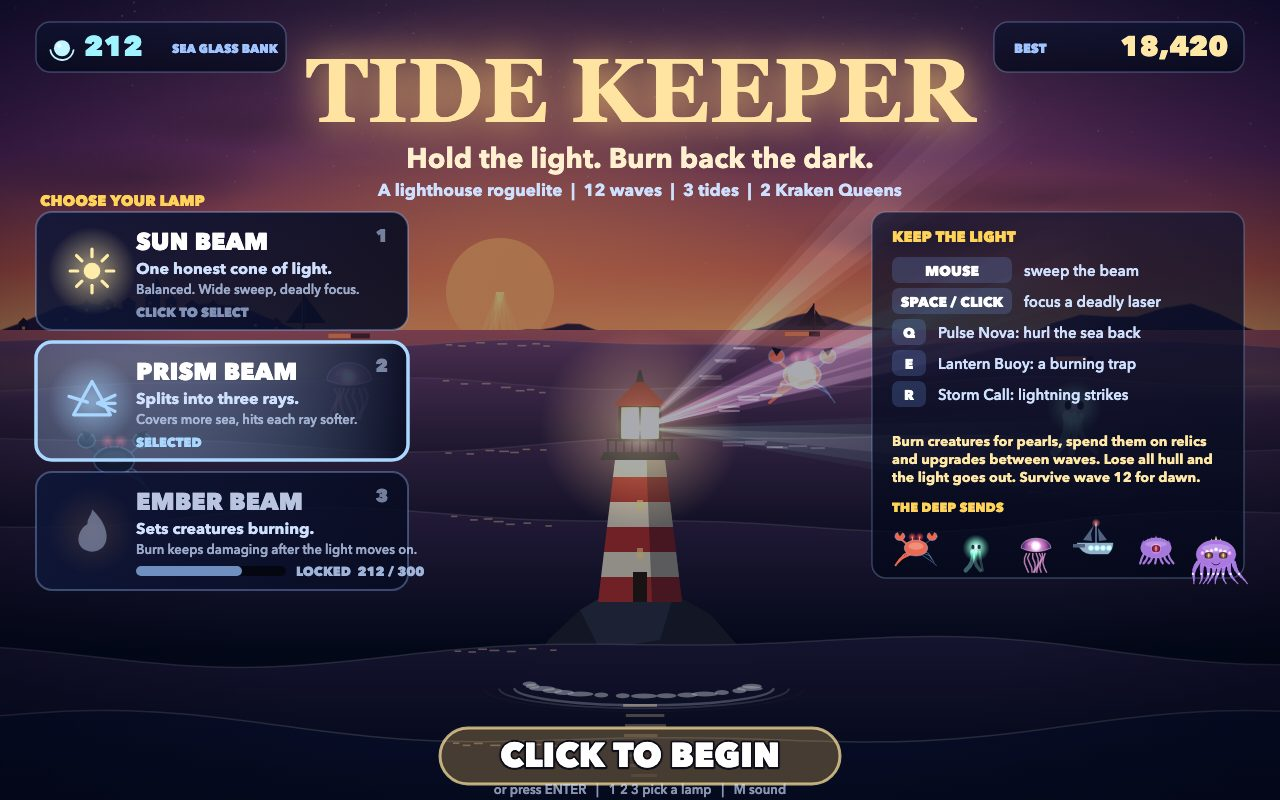
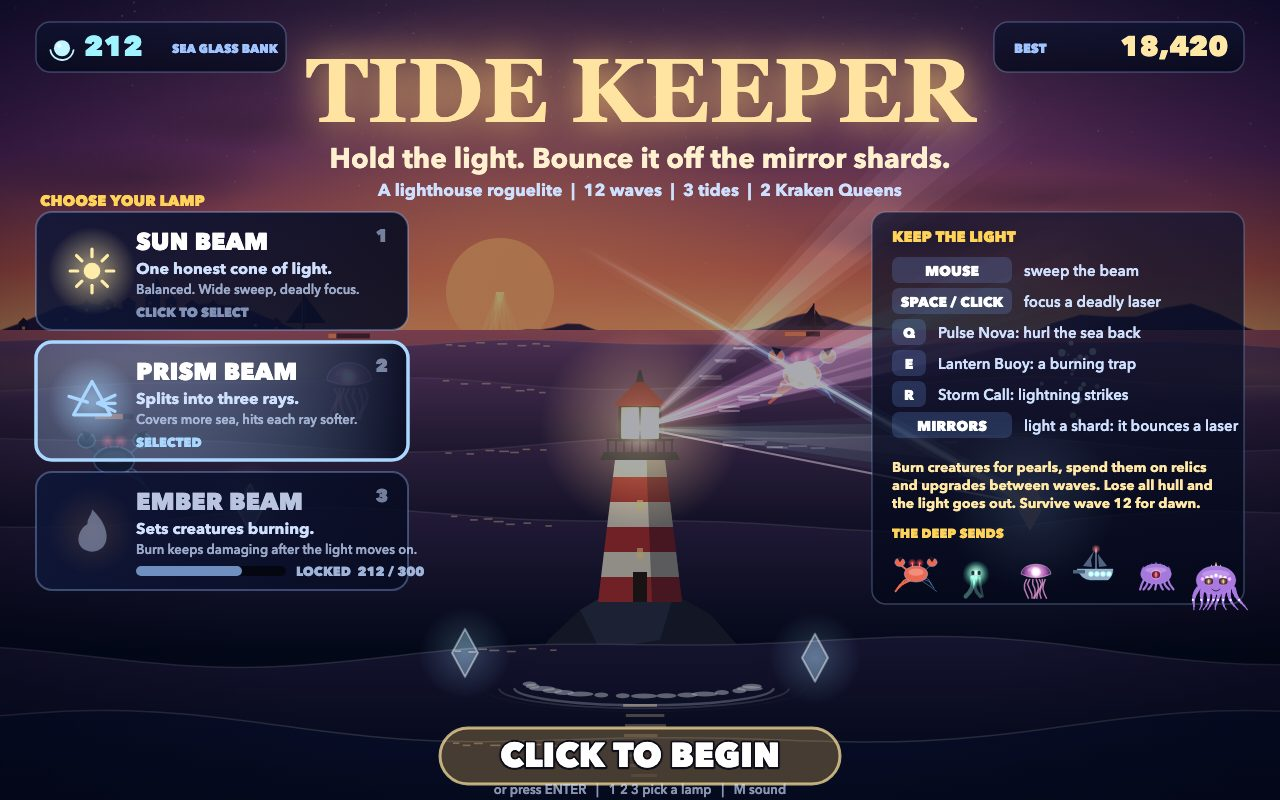
Tide Keeper 4: mirror shards bounce the beam into lasers

diff --git a/game/src/world.js b/game/src/world.js
@@ -1,7 +1,7 @@
 // The rules of Tide Keeper. A World holds everything that happens: the beam, the creatures, the waves,
 // the abilities, the pearls and shop, the score. It never touches the screen or the browser, so it runs
 // the same in a page or in a headless test.
-import { BASE, BEAM, BEAMS, BOSS_WAVES, COMBO, LAMP, PULSE_CENTER, START, TIDES, TOTAL_WAVES, TOWER_HIT_RADIUS, ABILITIES } from './config.js';
+import { BASE, BEAM, BEAMS, BOSS_WAVES, COMBO, LAMP, MIRROR, MIRRORS, PULSE_CENTER, START, TIDES, TOTAL_WAVES, TOWER_HIT_RADIUS, ABILITIES } from './config.js';
 import { BOSSES, makeEnemy, moveEnemy, spawnPoint, TYPES, waveRoster } from './enemies.js';
 import { Rng } from './random.js';
 import { freshMeta, loadMeta, saveMeta } from './storage.js';
@@ -75,6 +75,7 @@ export class World {
     this.orbs = [];
     this.rings = [];
     this.buoys = [];
+    this.mirrors = MIRRORS.map((m) => ({ ...m, lit: 0, on: false, ang: 0 }));
     this.storm = null;
     this.cooldowns = { pulse: 0, buoy: 0, storm: 0 };
     this.cdFlash = { pulse: 0, buoy: 0, storm: 0 };
@@ -291,6 +292,32 @@ export class World {
     this.beamAngle = wrap(this.beamAngle + this.beamVel * dt);
   }
 
+  /** A mirror shard lights up while the beam covers it, then bounces a laser at the creature nearest to it. */
+  updateMirrors(dt, arms, range) {
+    for (const m of this.mirrors) {
+      const dx = m.x - LAMP.x;
+      const dy = m.y - LAMP.y;
+      const dist = Math.hypot(dx, dy);
+      const dir = Math.atan2(dy, dx);
+      let hit = false;
+      for (const arm of arms) if (dist < range + 40 && Math.abs(wrap(dir - (this.beamAngle + arm.off))) < arm.half + MIRROR.half) hit = true;
+      m.lit += ((hit && !this.locked ? 1 : 0) - m.lit) * Math.min(1, dt * 10);
+      m.on = m.lit > 0.45;
+      if (!m.on) continue;
+      let near = null;
+      let best = MIRROR.reach;
+      for (const e of this.enemies) {
+        const d = Math.hypot(e.x - m.x, e.y - m.y);
+        if (d < best) {
+          best = d;
+          near = e;
+        }
+      }
+      if (near) m.ang = Math.atan2(near.y - m.y, near.x - m.x);
+      else m.on = false;
+    }
+  }
+
   /** Damage `amount` to creature `e`. `pierce` ignores shields; `focused` is the laser. Returns damage dealt. */
   hurt(e, amount, { pierce = false, focused = false, burn = false } = {}) {
     let amt = amount;
@@ -335,6 +362,7 @@ export class World {
     const range = this.beamRange;
     const ember = this.beamId === 'ember';
     let burned = false;
+    this.updateMirrors(dt, arms, range);
 
     for (let i = this.enemies.length - 1; i >= 0; i -= 1) {
       const e = this.enemies[i];
@@ -365,6 +393,18 @@ export class World {
         if (ember) e.burn = Math.max(e.burn, 3.2);
         burned = true;
         if (this.fx.chance(this.focusing ? 0.7 : 0.25)) this.spark(e.x, e.y, 1, this.focusing ? '180,240,255' : ember ? '255,150,70' : '255,200,110', 120, 0.45);
+      }
+      for (const m of this.mirrors) {
+        if (!m.on) continue;
+        const mdx = e.x - m.x;
+        const mdy = e.y - m.y;
+        const md = Math.hypot(mdx, mdy);
+        const off = wrap(Math.atan2(mdy, mdx) - m.ang);
+        if (md < MIRROR.reach + e.r && Math.abs(off) < MIRROR.half + e.r / Math.max(md, 40)) {
+          this.hurt(e, MIRROR.dps * (this.focusing ? 2.2 : 1) * dt, { focused: this.focusing });
+          e.lit = 1;
+          if (this.fx.chance(0.3)) this.spark(e.x, e.y, 1, '150,235,255', 110, 0.4);
+        }
       }
       if (e.burn > 0) {
         e.burn -= dt;

diff --git a/game/src/title.js b/game/src/title.js
@@ -75,7 +75,7 @@ export function drawTitle(ctx, world, ui, t) {
   ctx.shadowBlur = 40;
   text(ctx, 'TIDE KEEPER', W / 2, 122, 90, '#ffe3a0', 'center', 900, SERIF);
   ctx.restore();
-  text(ctx, 'Hold the light. Burn back the dark.', W / 2, 168, 28, '#fff1d0', 'center', 700);
+  text(ctx, 'Hold the light. Bounce it off the mirror shards.', W / 2, 168, 28, '#fff1d0', 'center', 700);
   text(ctx, `A lighthouse roguelite  |  ${TOTAL_WAVES} waves  |  3 tides  |  2 Kraken Queens`, W / 2, 196, 17, '#cfe0ff', 'center', 700);
 
   // Bank and best score.
@@ -93,7 +93,7 @@ export function drawTitle(ctx, world, ui, t) {
 
   // Rules, right.
   const px = W - 36 - 372;
-  panel(ctx, px, 212, 372, 366, 0.72);
+  panel(ctx, px, 212, 372, 392, 0.72);
   text(ctx, 'KEEP THE LIGHT', px + 20, 242, 15, '#ffd35a', 'left', 900);
   const rows = [
     ['MOUSE', 'sweep the beam'],
@@ -101,6 +101,7 @@ export function drawTitle(ctx, world, ui, t) {
     ['Q', 'Pulse Nova: hurl the sea back'],
     ['E', 'Lantern Buoy: a burning trap'],
     ['R', 'Storm Call: lightning strikes'],
+    ['MIRRORS', 'light a shard: it bounces a laser'],
   ];
   rows.forEach(([key, what], i) => {
     const y = 276 + i * 31;
@@ -110,14 +111,14 @@ export function drawTitle(ctx, world, ui, t) {
     text(ctx, key, px + 20 + (key.length > 3 ? 60 : 17), y, 14, '#ffffff', 'center', 800);
     text(ctx, what, px + (key.length > 3 ? 152 : 66), y, 15, '#cfe0ff', 'left', 600);
   });
-  text(ctx, 'Burn creatures for pearls, spend them on relics', px + 20, 446, 14, '#ffe7a6', 'left', 700);
-  text(ctx, 'and upgrades between waves. Lose all hull and', px + 20, 464, 14, '#ffe7a6', 'left', 700);
-  text(ctx, `the light goes out. Survive wave ${TOTAL_WAVES} for dawn.`, px + 20, 482, 14, '#ffe7a6', 'left', 700);
+  text(ctx, 'Burn creatures for pearls, spend them on relics', px + 20, 472, 14, '#ffe7a6', 'left', 700);
+  text(ctx, 'and upgrades between waves. Lose all hull and', px + 20, 490, 14, '#ffe7a6', 'left', 700);
+  text(ctx, `the light goes out. Survive wave ${TOTAL_WAVES} for dawn.`, px + 20, 508, 14, '#ffe7a6', 'left', 700);
   // The creatures.
-  text(ctx, 'THE DEEP SENDS', px + 20, 512, 13, '#ffd35a', 'left', 900);
+  text(ctx, 'THE DEEP SENDS', px + 20, 538, 13, '#ffd35a', 'left', 900);
   ['crab', 'ghost', 'jelly', 'gunboat', 'leviathan', 'kraken'].forEach((type, i) => {
     const small = type === 'kraken' ? 0.3 : type === 'leviathan' ? 0.32 : type === 'gunboat' ? 0.5 : 0.62;
-    drawEnemyIcon(ctx, type, px + 44 + i * 60, 548 + (type === 'kraken' ? 8 : 0), small, t + i);
+    drawEnemyIcon(ctx, type, px + 44 + i * 60, 574 + (type === 'kraken' ? 8 : 0), small, t + i);
   });
 
   // Click to begin.

diff --git a/game/src/beam.js b/game/src/beam.js
@@ -1,7 +1,7 @@
 // Light and sparks: the volumetric beam (sun, prism or ember), its glitter on the water, the lamp glow,
 // the ability effects (pulse ring, lantern buoys, lightning), particles, flying pearls and damage numbers.
 // Everything luminous is drawn additively ('lighter') so overlapping light adds up and glows.
-import { BEAMS, HORIZON, LAMP, PEARL_HUD, PULSE_CENTER } from './config.js';
+import { BEAMS, HORIZON, LAMP, MIRROR, PEARL_HUD, PULSE_CENTER } from './config.js';
 
 function cone(ctx, angle, half, range) {
   ctx.beginPath();
@@ -262,6 +262,58 @@ export function drawFloaters(ctx, world) {
     ctx.strokeText(f.text, f.x, f.y);
     ctx.fillStyle = f.color || '#ffe9a8';
     ctx.fillText(f.text, f.x, f.y);
+  }
+  ctx.restore();
+}
+
+/** Mirror shards: faint crystals on the water; lit ones throw a reflected laser at the creature they aim at. */
+export function drawMirrors(ctx, world, t) {
+  ctx.save();
+  ctx.globalCompositeOperation = 'lighter';
+  for (const m of world.mirrors) {
+    const k = m.lit;
+    const bob = Math.sin(t * 1.6 + m.x * 0.01) * 3;
+    const y = m.y + bob;
+    const glow = ctx.createRadialGradient(m.x, y, 0, m.x, y, 46 + 40 * k);
+    glow.addColorStop(0, `rgba(170,240,255,${0.28 + 0.6 * k})`);
+    glow.addColorStop(1, 'rgba(170,240,255,0)');
+    ctx.fillStyle = glow;
+    ctx.fillRect(m.x - 90, y - 90, 180, 180);
+    ctx.beginPath();
+    ctx.moveTo(m.x, y - 24);
+    ctx.lineTo(m.x + 13, y);
+    ctx.lineTo(m.x, y + 24);
+    ctx.lineTo(m.x - 13, y);
+    ctx.closePath();
+    ctx.fillStyle = `rgba(200,245,255,${0.35 + 0.55 * k})`;
+    ctx.fill();
+    ctx.strokeStyle = `rgba(255,255,255,${0.5 + 0.5 * k})`;
+    ctx.lineWidth = 2;
+    ctx.stroke();
+    if (m.on) {
+      const range = MIRROR.reach + 40;
+      const gradient = ctx.createLinearGradient(m.x, y, m.x + Math.cos(m.ang) * range, y + Math.sin(m.ang) * range);
+      gradient.addColorStop(0, 'rgba(190,245,255,0.95)');
+      gradient.addColorStop(1, 'rgba(120,210,255,0)');
+      for (const [w, a] of [[16, 0.22], [7, 0.45], [2.6, 1]]) {
+        ctx.strokeStyle = gradient;
+        ctx.globalAlpha = a;
+        ctx.lineWidth = w;
+        ctx.lineCap = 'round';
+        ctx.beginPath();
+        ctx.moveTo(m.x, y);
+        ctx.lineTo(m.x + Math.cos(m.ang) * range, y + Math.sin(m.ang) * range);
+        ctx.stroke();
+      }
+      ctx.globalAlpha = 1;
+      // The bounce: a thin line from the lamp to the shard.
+      ctx.strokeStyle = 'rgba(255,250,225,0.55)';
+      ctx.lineWidth = 2;
+      ctx.beginPath();
+      ctx.moveTo(LAMP.x, LAMP.y);
+      ctx.lineTo(m.x, y);
+      ctx.stroke();
+    }
   }
   ctx.restore();
 }

diff --git a/game/src/autopilot.js b/game/src/autopilot.js
@@ -51,6 +51,17 @@ export class Autopilot {
         }
       }
       this.retargetT = s.retarget;
+      this.mirror = null;
+      let crowd = 2;
+      for (const m of world.mirrors) {
+        const n = world.enemies.filter((e) => Math.hypot(e.x - m.x, e.y - m.y) < 330).length;
+        if (n > crowd) {
+          crowd = n;
+          this.mirror = m;
+        }
+      }
+      const danger = world.enemies.some((e) => e.type === 'shell' || e.type === 'kraken' || Math.hypot(e.x - BASE.x, e.y - BASE.y) < 260);
+      if (danger) this.mirror = null;
     }
     this.err += (this.rng.range(-1, 1) * s.jitter - this.err * 0.08) * 1;
     const cast = [];
@@ -58,6 +69,9 @@ export class Autopilot {
     if (this.thinkT <= 0) {
       this.thinkT = s.react;
       this.decideAbilities(world, cast);
+    }
+    if (this.mirror && world.enemies.length > 0) {
+      return { aim: Math.atan2(this.mirror.y - LAMP.y, this.mirror.x - LAMP.x) + this.err, focus: false, cast, cursor: { x: this.mirror.x, y: this.mirror.y } };
     }
     const t = this.target;
     if (!t) return { aim: world.beamAngle, focus: false, cast, cursor: { x: BASE.x, y: 480 } };

diff --git a/game/src/render.js b/game/src/render.js
@@ -1,5 +1,5 @@
 // Draws one whole frame: the scene back to front, then the HUD or the screen laid over it.
-import { drawBeam, drawBeamReflection, drawBolts, drawBuoys, drawFloaters, drawLampGlow, drawParticles, drawRings } from './beam.js';
+import { drawBeam, drawBeamReflection, drawBolts, drawBuoys, drawFloaters, drawLampGlow, drawMirrors, drawParticles, drawRings } from './beam.js';
 import { drawEnemy } from './creatures.js';
 import { H, W } from './config.js';
 import { drawHud } from './hud.js';
@@ -29,6 +29,7 @@ export function render(ctx, world, ui) {
   for (const e of world.enemies) if (e.type === 'ghost') drawEnemy(ctx, e, world.focusing);
   drawBeamReflection(ctx, world, t);
   drawBeam(ctx, world, t);
+  drawMirrors(ctx, world, t);
   drawLampGlow(ctx, world, t);
   drawRings(ctx, world);
   drawBolts(ctx, world);

diff --git a/game/src/shots.js b/game/src/shots.js
@@ -25,7 +25,7 @@ function freshRun(world, seed, beam, relics = []) {
 function busyness(world) {
   const lit = world.enemies.filter((e) => e.lit > 0.5).length;
   const kinds = new Set(world.enemies.map((e) => e.type)).size;
-  return world.enemies.length + lit * 3 + kinds * 4 + (world.focusing ? 5 : 0) + world.rings.length * 22 + world.buoys.length * 10 + (world.boss && world.boss.lit > 0.5 ? 16 : 0) + world.bolts.length * 3 + world.floaters.length * 0.6;
+  return world.enemies.length + lit * 3 + kinds * 4 + (world.focusing ? 5 : 0) + world.rings.length * 22 + world.buoys.length * 10 + (world.boss && world.boss.lit > 0.5 ? 16 : 0) + world.bolts.length * 3 + world.floaters.length * 0.6 + world.mirrors.filter((m) => m.on).length * 30;
 }
 
 /** Play wave 5 (the Kraken Queen) once to find the busiest moment, then replay to it. */

diff --git a/game/src/hud.js b/game/src/hud.js
@@ -173,7 +173,10 @@ export function drawHud(ctx, world, ui, pal) {
   drawRadar(ctx, world, t, accent);
   drawAbilityBar(ctx, world, t);
 
-  // Bottom right: the lamp in use and the keys.
+  // Bottom right: the lamp in use, a hint about the mirror shards, and the keys.
+  panel(ctx, W - 300, H - 126, 284, 28, 0.6, 'rgba(150,235,255,0.4)');
+  drawIcon(ctx, 'cone', W - 282, H - 112, 18, '#aef0ff');
+  text(ctx, 'MIRROR SHARDS bounce the beam', W - 266, H - 107, 13, '#bff6ff', 'left', 800);
   panel(ctx, W - 300, H - 92, 284, 78);
   drawIcon(ctx, world.beamId === 'sun' ? 'sunbeam' : world.beamId, W - 270, H - 66, 26, `rgb(${BEAMS[world.beamId].rgb})`);
   text(ctx, BEAMS[world.beamId].name.toUpperCase(), W - 246, H - 60, 17, '#ffffff', 'left', 900);

diff --git a/game/src/config.js b/game/src/config.js
@@ -61,3 +61,12 @@ export const COMBO = { window: 3, step: 5, perStep: 0.5, max: 5 };
 export const PEARL_HUD = { x: 934, y: 98 };
 /** The centre of the Pulse Nova: the foot of the tower. */
 export const PULSE_CENTER = { x: 640, y: 520 };
+
+/** Mirror shards on the sea: sweep the beam over one and it bounces a laser at the nearest creature. */
+export const MIRRORS = [
+  { x: 250, y: 505 },
+  { x: 1030, y: 505 },
+  { x: 465, y: 655 },
+  { x: 815, y: 655 },
+];
+export const MIRROR = { range: 560, half: 0.06, dps: 24, reach: 480 };
